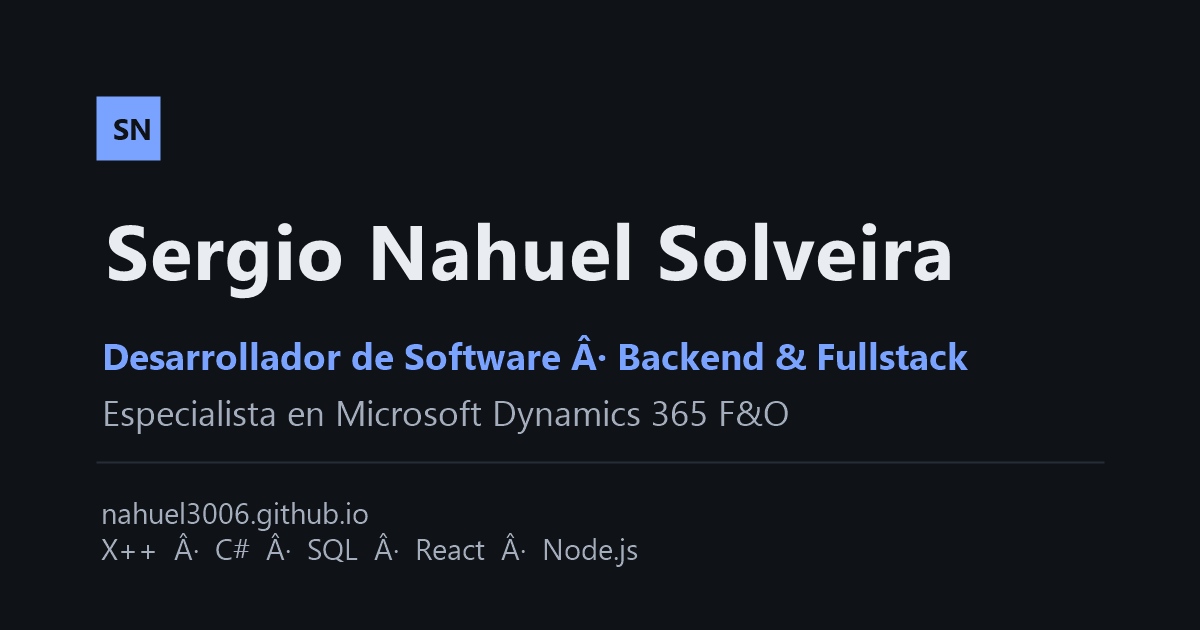
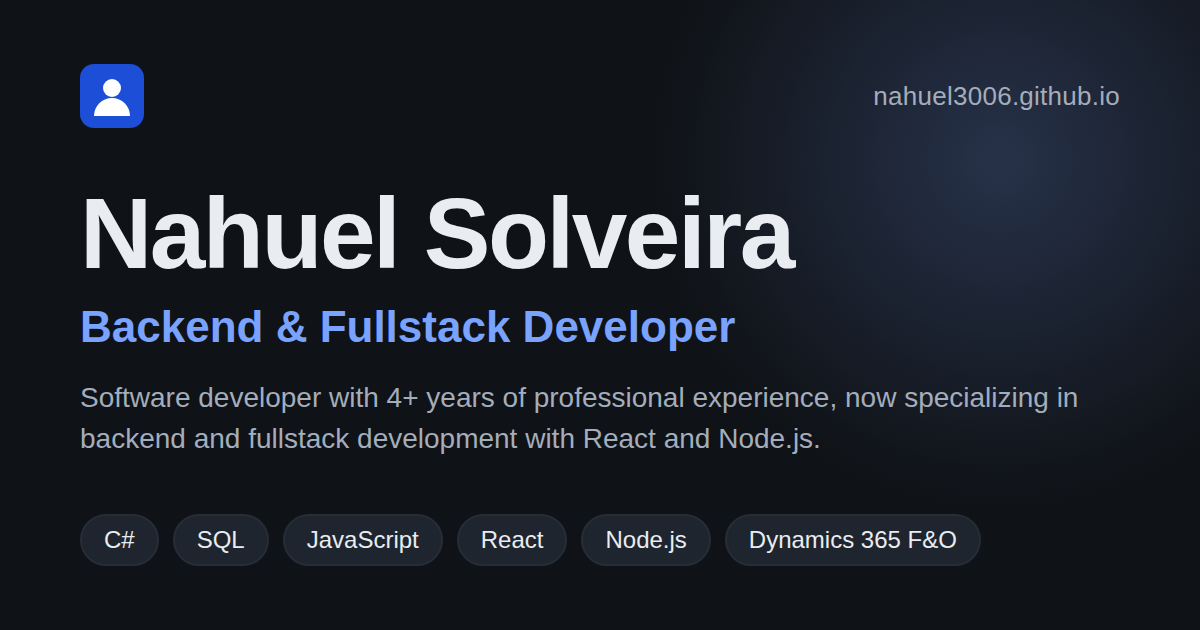
Cambios imagen y hero

Changed region(s): [[0.0617, 0.0, 0.9867, 0.7238], [0.0617, 0.7841, 0.8017, 0.9048], [0.0617, 0.0905, 0.1542, 0.2714]]

diff --git a/index.html b/index.html
@@ -216,10 +216,10 @@
     <section class="hero" id="inicio" aria-labelledby="hero-title">
       <div class="container">
         <h1 id="hero-title">Nahuel Solveira</h1>
-        <p class="subtitle">Desarrollador Backend &amp; Fullstack | Experiencia previa en Microsoft Dynamics 365 F&amp;O
+        <p class="subtitle">Desarrollador Backend y Fullstack</p>
+        <p class="intro">Desarrollador de software con más de 4 años de experiencia profesional en Dynamics 365 F&amp;O,
+          actualmente especializandome en desarrollo backend y fullstack con React y Node.js.
         </p>
-        <p class="intro">Durante más de cuatro años mi trabajo se centró en optimizar procesos críticos en Dynamics 365
-          F&amp;O.<br>Actualmente me estoy especializando en desarrollo backend y fullstack con React y Node.js.</p>
         <div class="btn-row">
           <a class="btn btn-primary" href="https://www.linkedin.com/in/nahuel-solveira" target="_blank"
             rel="noopener"><svg class="icon-inline" aria-hidden="true" focusable="false">

diff --git a/en/index.html b/en/index.html
@@ -205,10 +205,10 @@
     <section class="hero" id="inicio" aria-labelledby="hero-title">
       <div class="container">
         <h1 id="hero-title">Nahuel Solveira</h1>
-        <p class="subtitle">Backend &amp; Fullstack Developer | Previous experience in Microsoft Dynamics 365 F&amp;O
+        <p class="subtitle">Backend & Fullstack Developer</p>
+        <p class="intro">Software developer with 4+ years of professional experience in Dynamics 365 F&amp;O, now
+          specializing in backend and fullstack development with React and Node.js.
         </p>
-        <p class="intro">For more than four years, my work focused on optimizing critical processes in Dynamics 365
-          F&amp;O.<br>I am currently specializing in backend and fullstack development with React and Node.js.</p>
         <div class="btn-row">
           <a class="btn btn-primary" href="https://www.linkedin.com/in/nahuel-solveira" target="_blank"
             rel="noopener"><svg class="icon-inline" aria-hidden="true" focusable="false">
